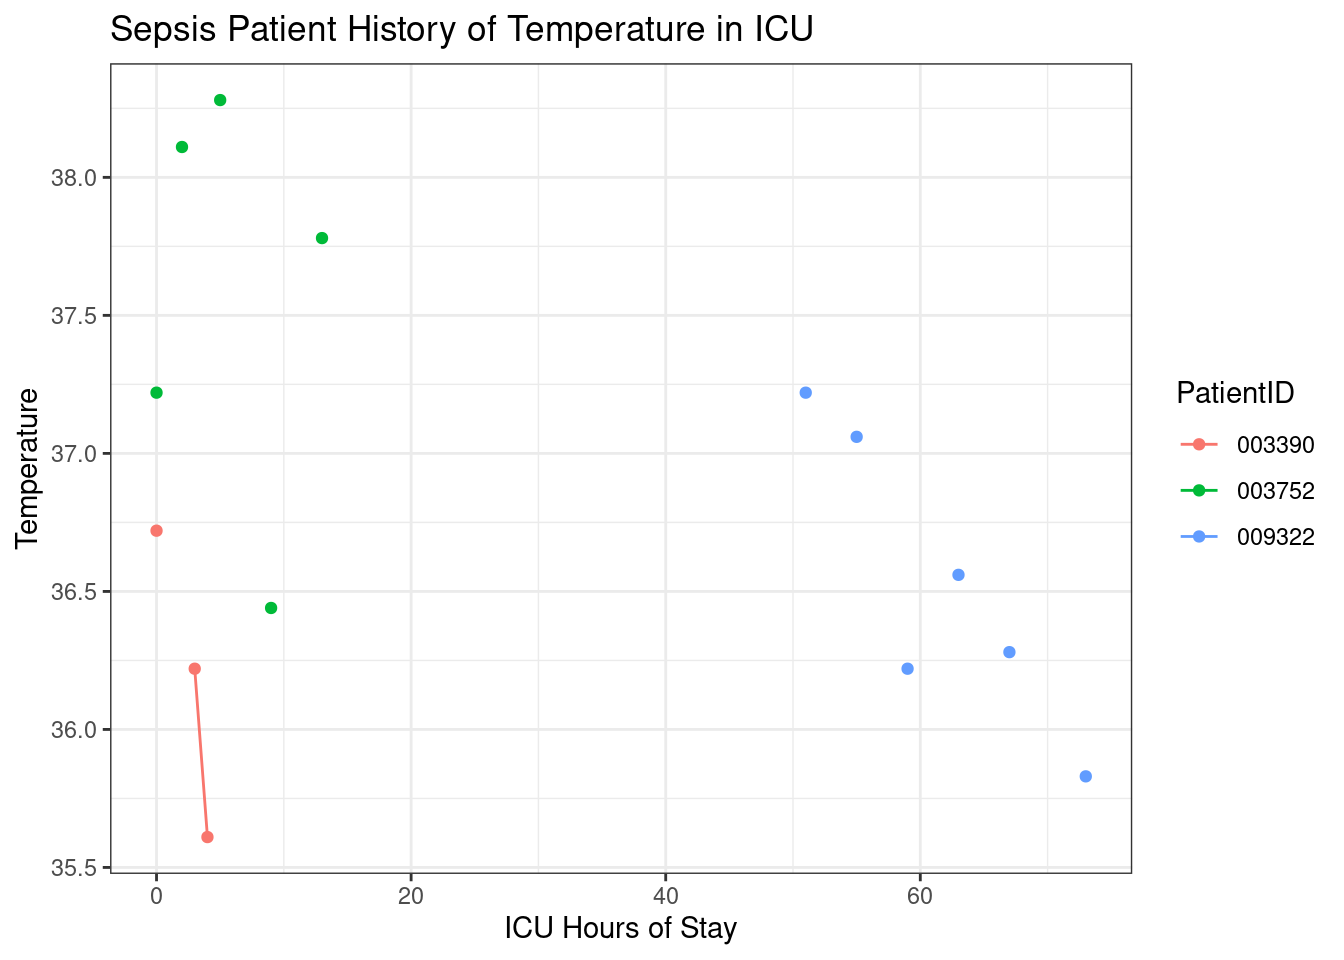
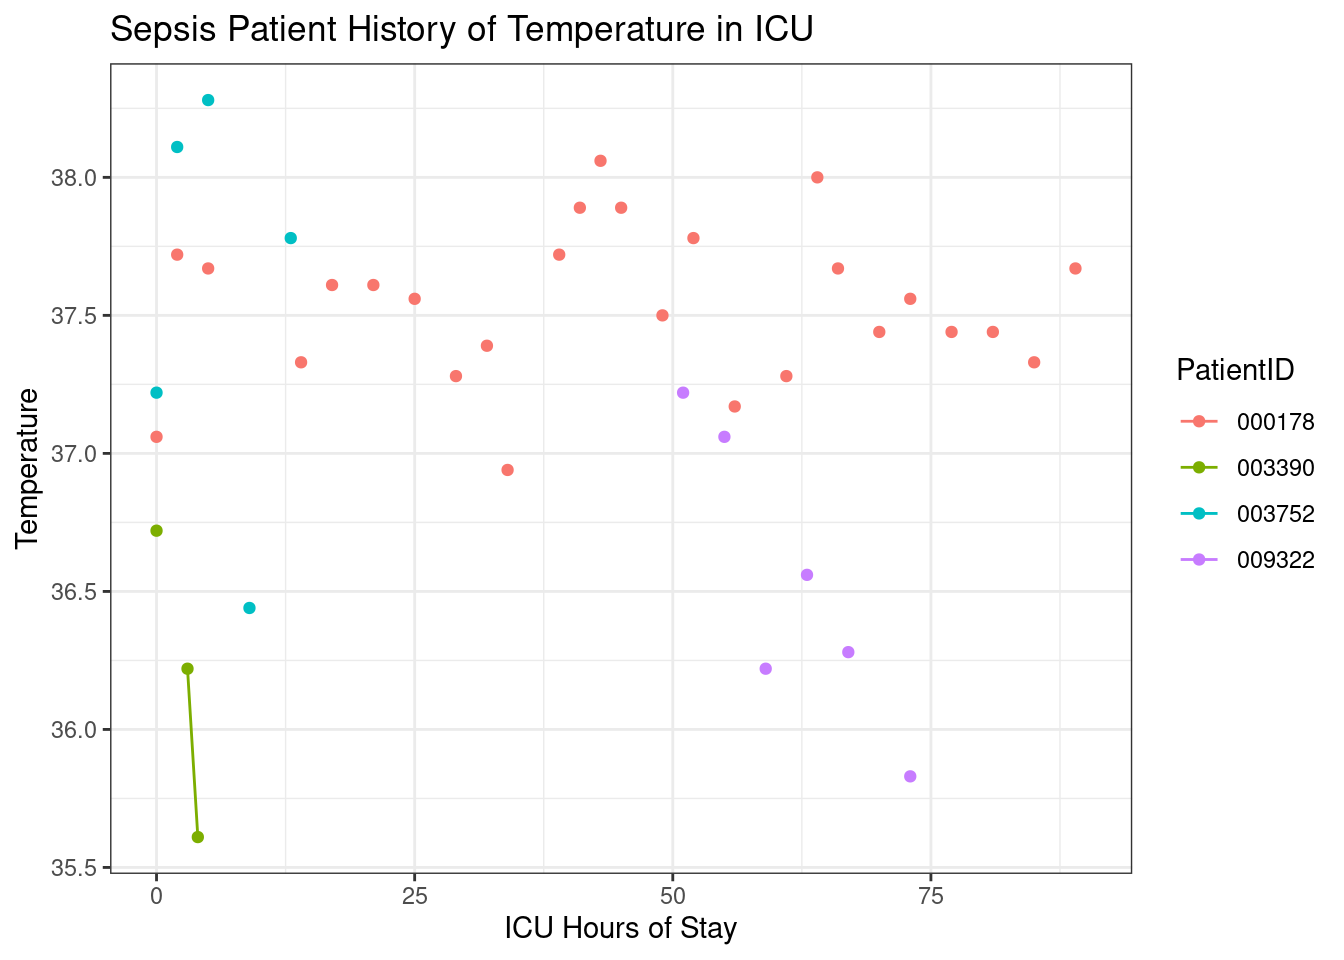
Updated report

diff --git a/A7.html b/A7.html
@@ -63,7 +63,7 @@ ul.task-list li input[type="checkbox"] {
 
 </header>
 
-<p>Report Last run 2023-04-12 10:12:45</p>
+<p>Report Last run 2023-04-12 11:10:08</p>
 <div class="cell">
 
 </div>
@@ -72,7 +72,7 @@ ul.task-list li input[type="checkbox"] {
 </div>
 <section id="task-4-make-an-icu-status-report" class="level1">
 <h1>Task 4: Make an ICU status report</h1>
-<p>This report was generated on 2023-04-12 10:12:48.</p>
+<p>This report was generated on 2023-04-12 11:10:10.</p>
 <div class="cell">
 <div class="cell-output-display">
 
@@ -88,6 +88,13 @@ ul.task-list li input[type="checkbox"] {
   </tr>
  </thead>
 <tbody>
+  <tr>
+   <td style="text-align:left;"> 000178 </td>
+   <td style="text-align:right;"> 90 </td>
+   <td style="text-align:right;"> 119 </td>
+   <td style="text-align:right;"> NA </td>
+   <td style="text-align:right;"> 17 </td>
+  </tr>
   <tr>
    <td style="text-align:left;"> 003390 </td>
    <td style="text-align:right;"> 8 </td>
